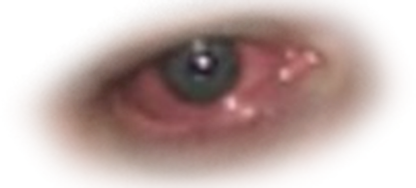
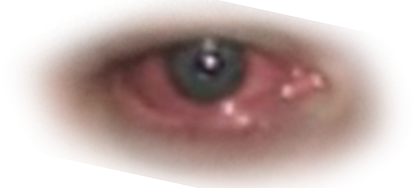
Added rotation

diff --git a/src/FaceInputs.svelte b/src/FaceInputs.svelte
@@ -1,23 +1,44 @@
 <script lang="ts">
+import type { Point } from "face-api.js";
+
 import { getContext } from "svelte";
 import faceapi from "../faceApi/faceapi";
-import PhotoCanvas from "./PhotoCanvas.svelte";
 const {enableDetection} = getContext('face');
 
     let landmarks:object[]
     let eyeFilter:string = "stoned"
 
+    interface FacePartRect {
+        startX: number,
+        startY: number,
+        angle: number,
+        width: number,
+        height: number
+    }
+
+    const rotateAndPaint = (ctx:CanvasRenderingContext2D, startX:number, startY:number, width:number, height:number, angle:number, image:HTMLImageElement) => {
+        console.log(startX+ width/2)
+        ctx.translate(startX + width/2, startY + height/2)
+        ctx.rotate(angle)
+        ctx.translate(-(startX + width/2), - (startY + height/2))
+        ctx.drawImage(image, startX, startY, width, height)
+        ctx.setTransform(1,0,0,1,0,0)
+    }
 
     $: if (landmarks) {
         console.log(landmarks)
     }
 
-    const getEyeRect = (eye) => {
+    const getEyeRect = (eye: Point[]) => {
+        let partRect: FacePartRect
         const startX = eye[0].x - 15
         const width = (eye[3].x - startX) * 1.5
         const startY = eye[2].y - 15
         const height = (eye[5].y - startY) * 2.2
-        return {startX, startY, width, height}
+        const angle = Math.asin((eye[3].y - eye[0].y)/(eye[3].x - eye[0].x))
+        console.log(angle)
+        return partRect = {startX, startY, width, height, angle}
+        
     }
 
 
@@ -47,7 +68,19 @@ const {enableDetection} = getContext('face');
             const leftEyeImg = new Image()
             leftEyeImg.src = eyeImgPath + "left.png"
             leftEyeImg.onload = () => {
-                photoctx.drawImage(leftEyeImg, leftEye.startX, leftEye.startY, leftEye.width, leftEye.height)
+                rotateAndPaint(
+                photoctx,
+                leftEye.startX,
+                leftEye.startY,
+                leftEye.width,
+                leftEye.height,
+                leftEye.angle,
+                leftEyeImg
+                )
+                // photoctx.translate(leftEye.startX + leftEye.width/2, leftEye.startY + leftEye.height/2)
+                // photoctx.rotate(leftEye.angle)
+                // photoctx.drawImage(leftEyeImg, leftEye.startX, leftEye.startY, leftEye.width, leftEye.height)
+                // photoctx.restore()
             }
 
             //Getting the image for right eye
@@ -55,7 +88,20 @@ const {enableDetection} = getContext('face');
             const rightEyeImg = new Image()
             rightEyeImg.src = eyeImgPath + "right.png"
             rightEyeImg.onload = () => {
-                photoctx.drawImage(rightEyeImg, rightEye.startX, rightEye.startY, rightEye.width, rightEye.height)
+
+                rotateAndPaint(
+                    photoctx,
+                    rightEye.startX,
+                    rightEye.startY,
+                    rightEye.width,
+                    rightEye.height,
+                    rightEye.angle,
+                    rightEyeImg
+                )
+                // photoctx.translate(rightEye.startX + rightEye.width/2, rightEye.startY + rightEye.height/2)
+                // photoctx.rotate(rightEye.angle)
+                // photoctx.drawImage(rightEyeImg, rightEye.startX, rightEye.startY, rightEye.width, rightEye.height)
+                // photoctx.restore()
             }
 
             // ctx.fillStyle = "blue"
